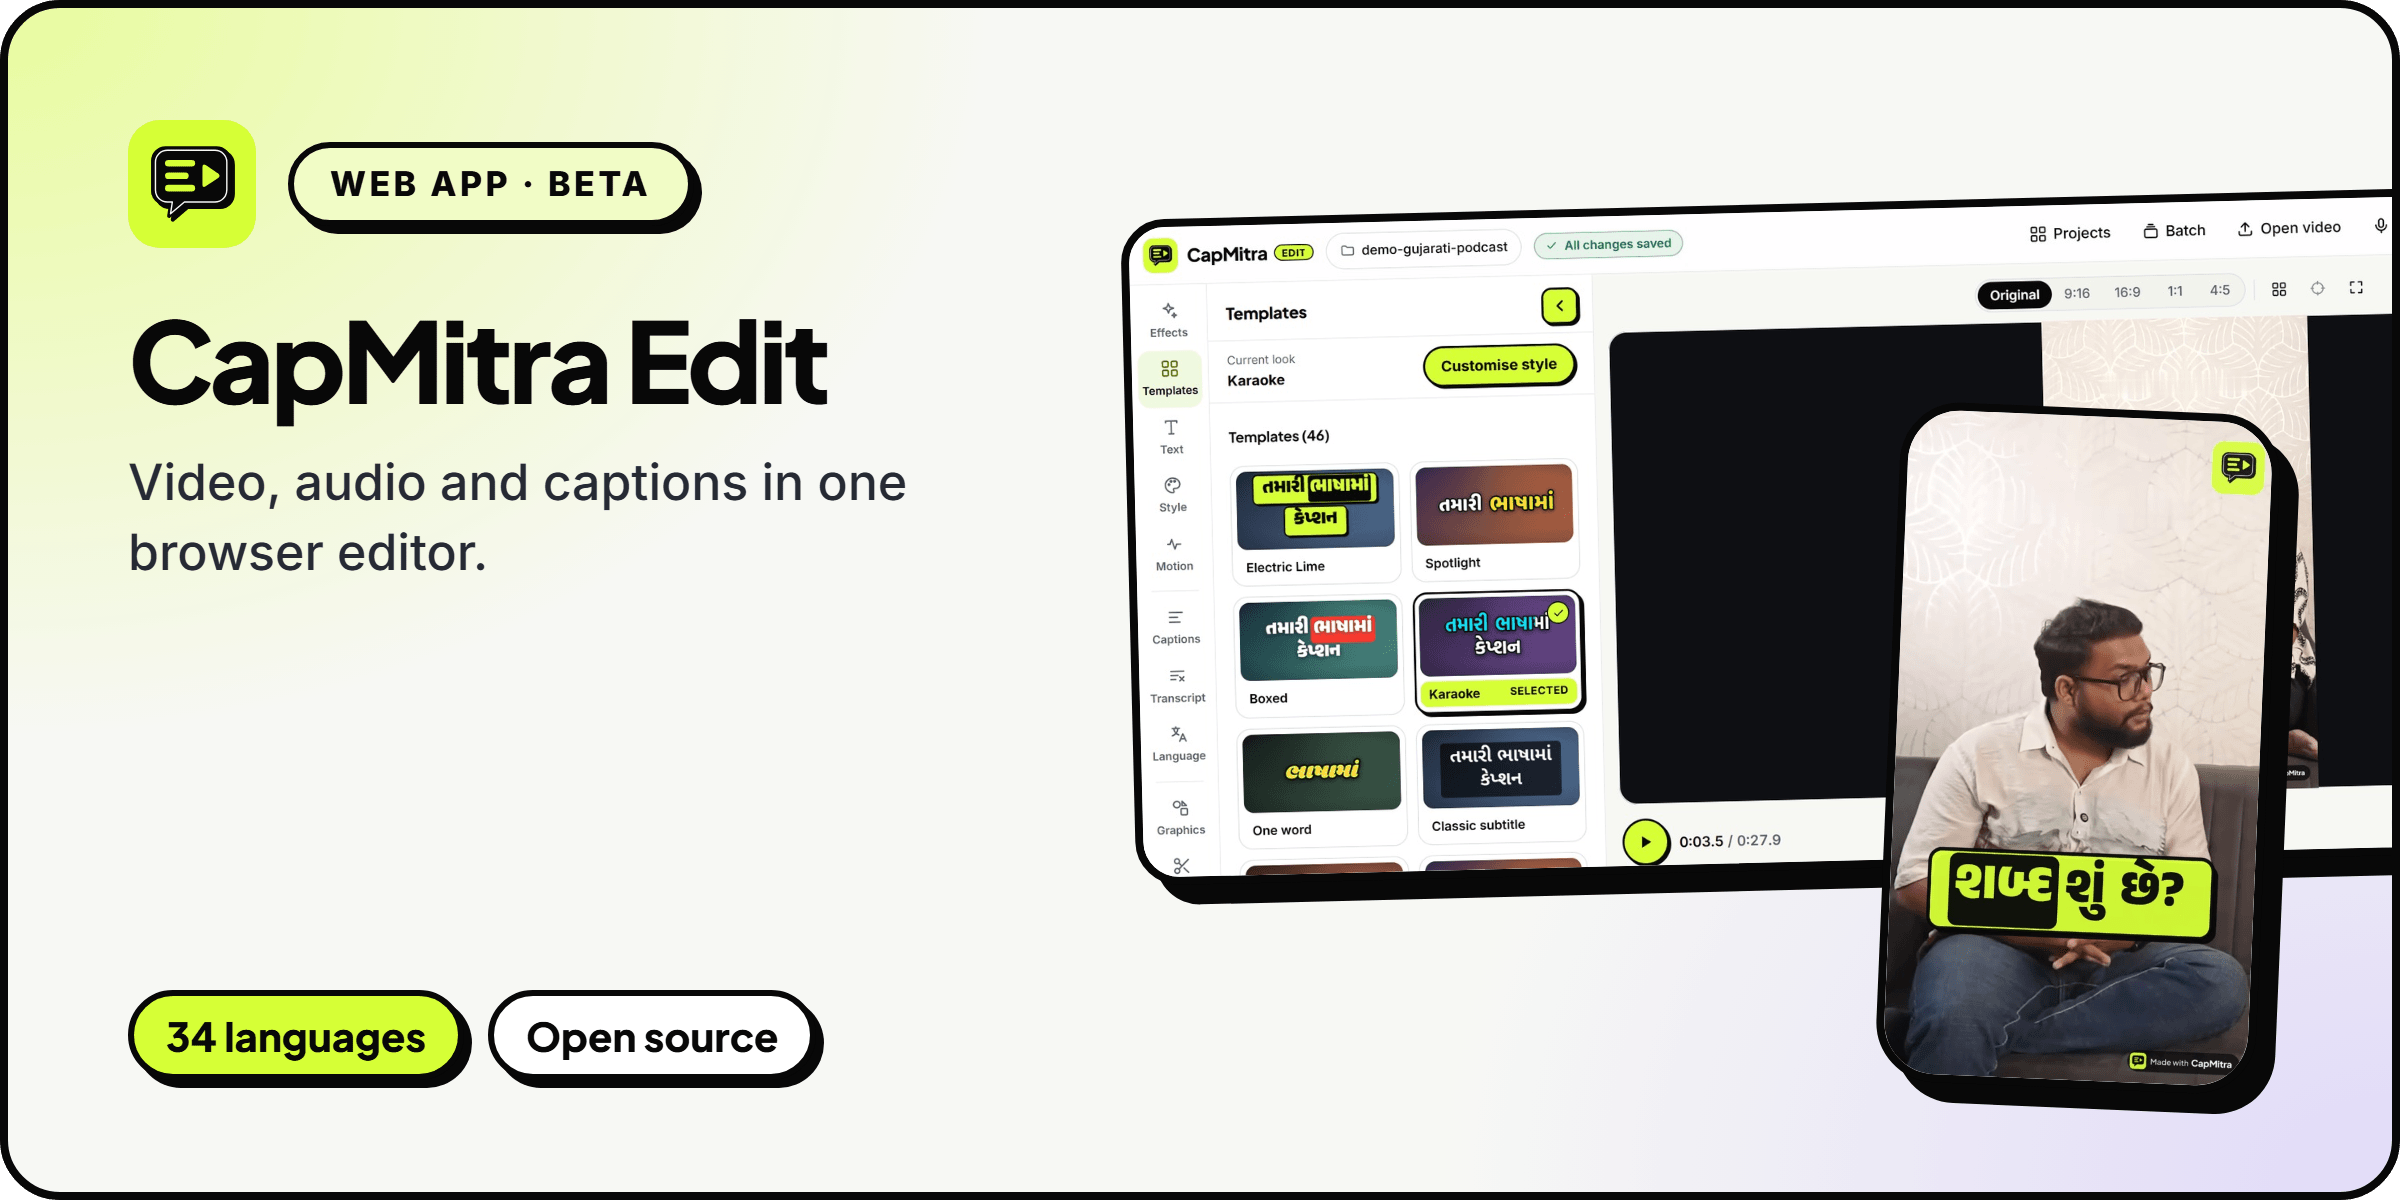
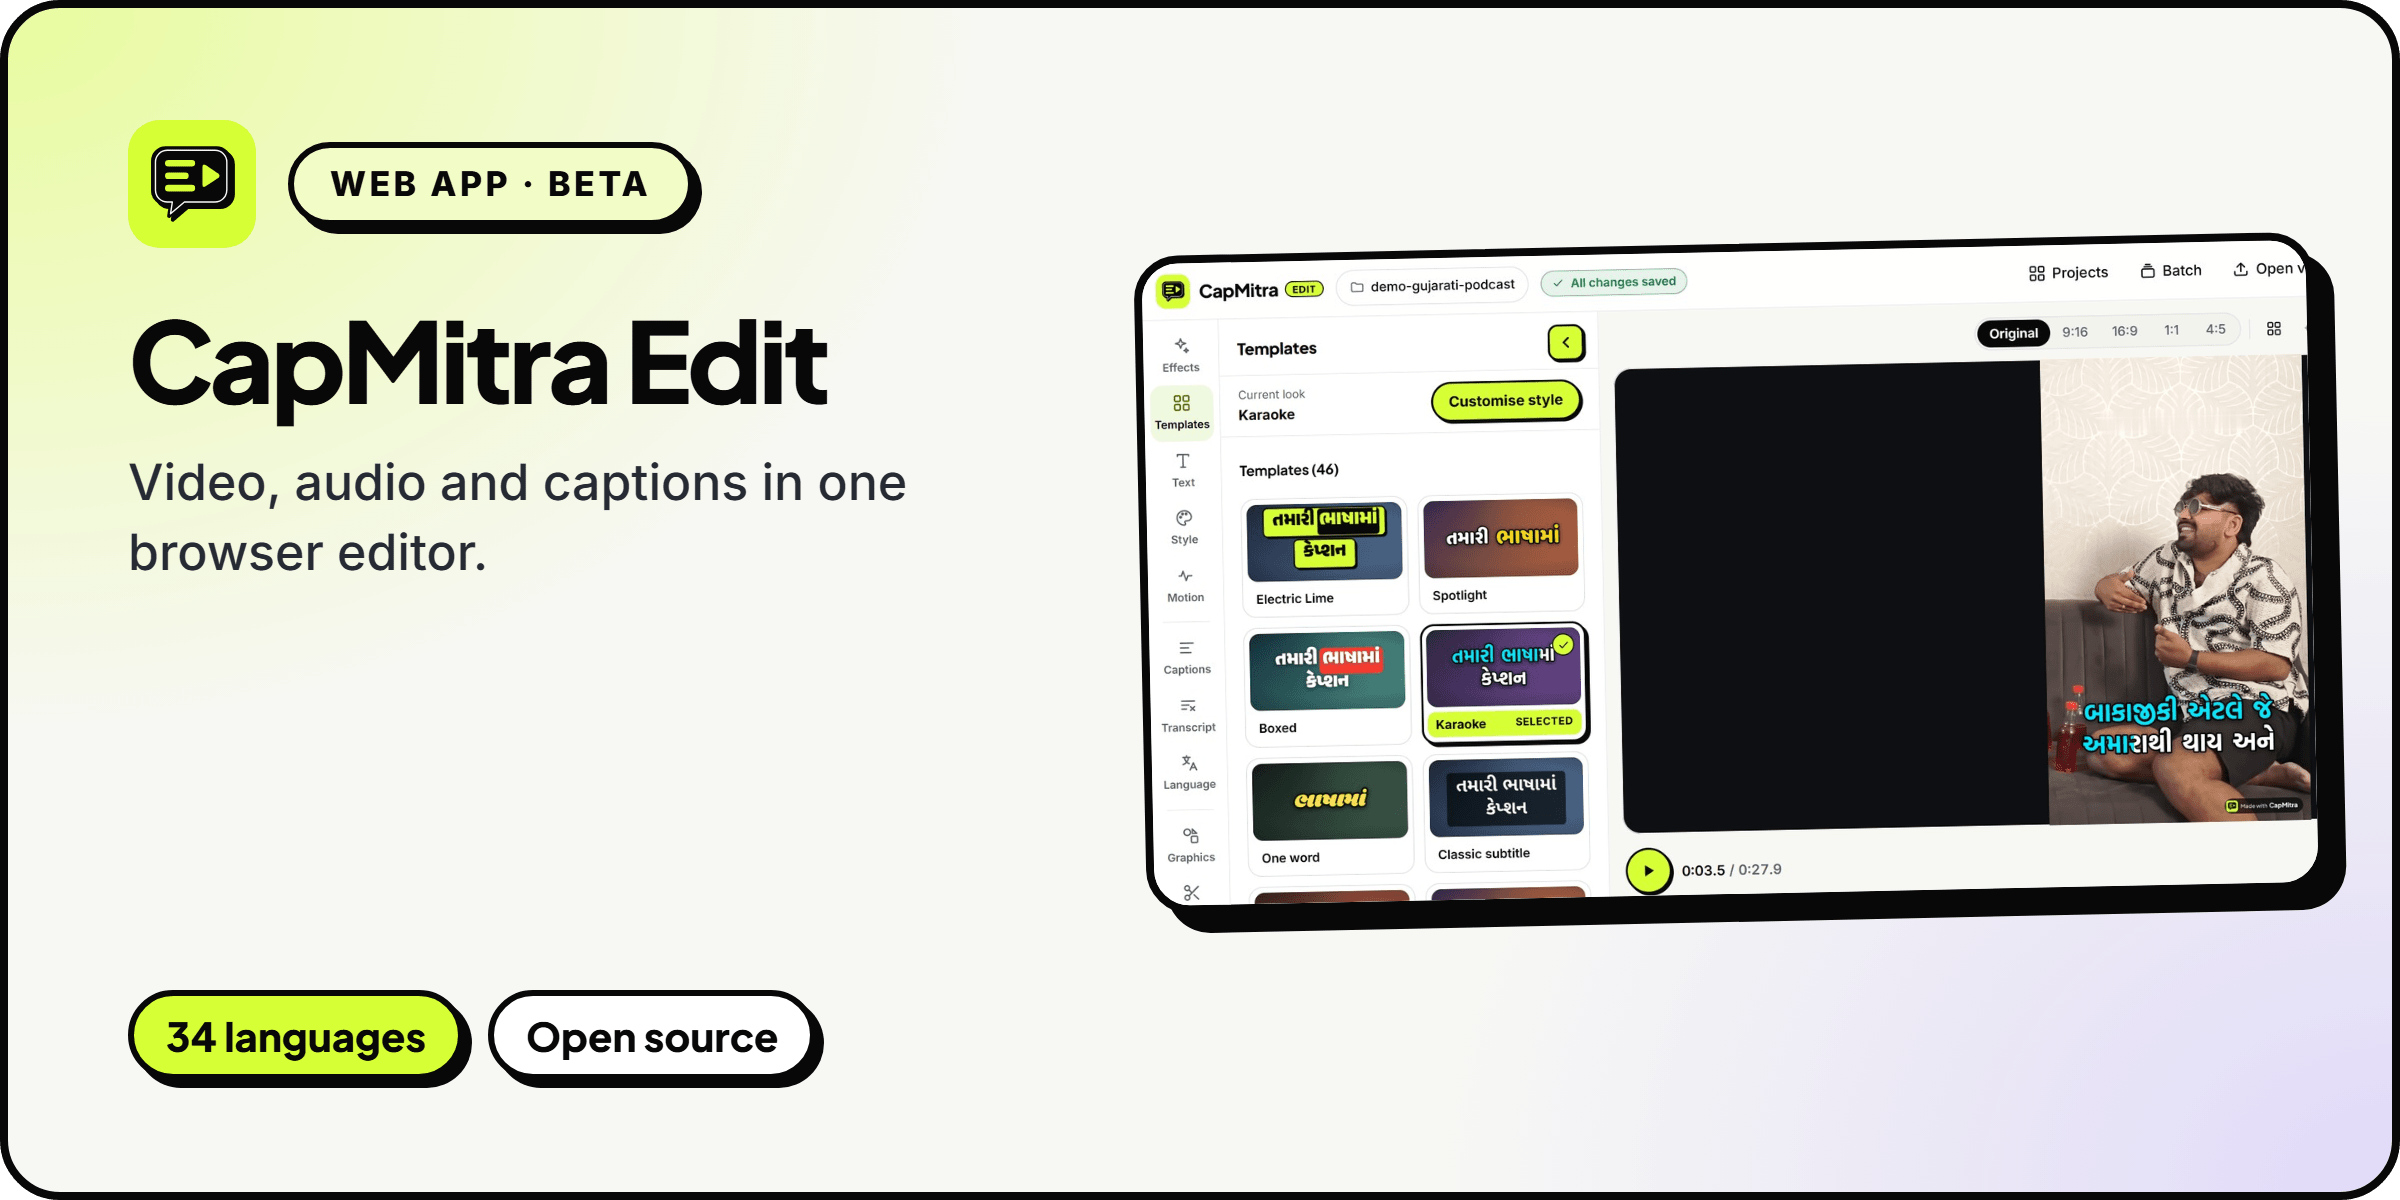
Featured cards: one full product screenshot each, no stacked phone or second screen

Changed region(s): [[0.4688, 0.1542, 1.0, 0.925]]

diff --git a/assets/src/visuals.html b/assets/src/visuals.html
@@ -27,8 +27,7 @@
 		<p class="line">Operations CRM for UCS Projects. Quote to handover in one system.</p>
 		<div class="pills"><span>Quotes</span><span>Site &amp; QC</span><span>Dashboards</span></div>
 	</div>
-	<div class="card" style="left:560px;top:50px;width:760px;height:476px;transform:rotate(-1.2deg)"><img src="img/crm-site.jpg" alt=""></div>
-	<div class="card" style="left:860px;top:300px;width:316px;height:244px;transform:rotate(2deg)"><img src="img/crm-dash.jpg" alt=""></div>
+	<div class="card" style="left:566px;top:82px;width:590px;height:404px;transform:rotate(-1.2deg)"><img src="img/crm-site.jpg" alt=""></div>
 </section>
 
 <!-- CapMitra Edit -->
@@ -39,8 +38,7 @@
 		<p class="line">Video, audio and captions in one browser editor.</p>
 		<div class="pills"><span>34 languages</span><span>Open source</span></div>
 	</div>
-	<div class="card" style="left:560px;top:96px;width:820px;height:333px;transform:rotate(-1.4deg)"><img src="img/capmitra-editor.jpg" alt=""></div>
-	<div class="card phone" style="left:940px;top:200px;width:190px;height:340px;transform:rotate(2.4deg)"><img src="img/capmitra-phone.jpg" alt=""></div>
+	<div class="card" style="left:566px;top:118px;width:590px;height:329px;transform:rotate(-1.2deg)"><img src="img/capmitra-templates.jpg" alt=""></div>
 </section>
 
 <!-- EvoFox Ronin -->
@@ -51,8 +49,7 @@
 		<p class="line">Set up the keyboard in the browser. Nothing to install.</p>
 		<div class="pills"><span>Live RGB</span><span>Key remap</span><span>WebHID</span></div>
 	</div>
-	<div class="card" style="left:560px;top:110px;width:820px;height:343px;transform:rotate(-1.4deg);background:#0b0b0f"><img src="img/ronin-keyboard.jpg" alt=""></div>
-	<div class="card phone" style="left:968px;top:178px;width:168px;height:364px;transform:rotate(2.4deg)"><img src="img/ronin-phone.jpg" alt=""></div>
+	<div class="card" style="left:566px;top:116px;width:590px;height:334px;transform:rotate(-1.2deg)"><img src="img/ronin-rgb.jpg" alt=""></div>
 </section>
 
 <!-- FieldPilot, with its official WordPress.org icon -->
